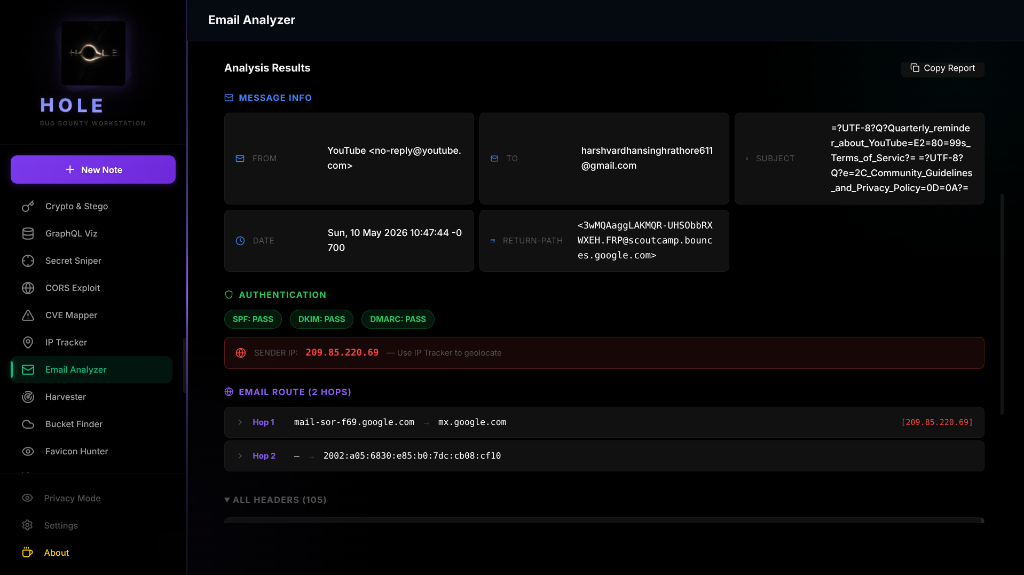
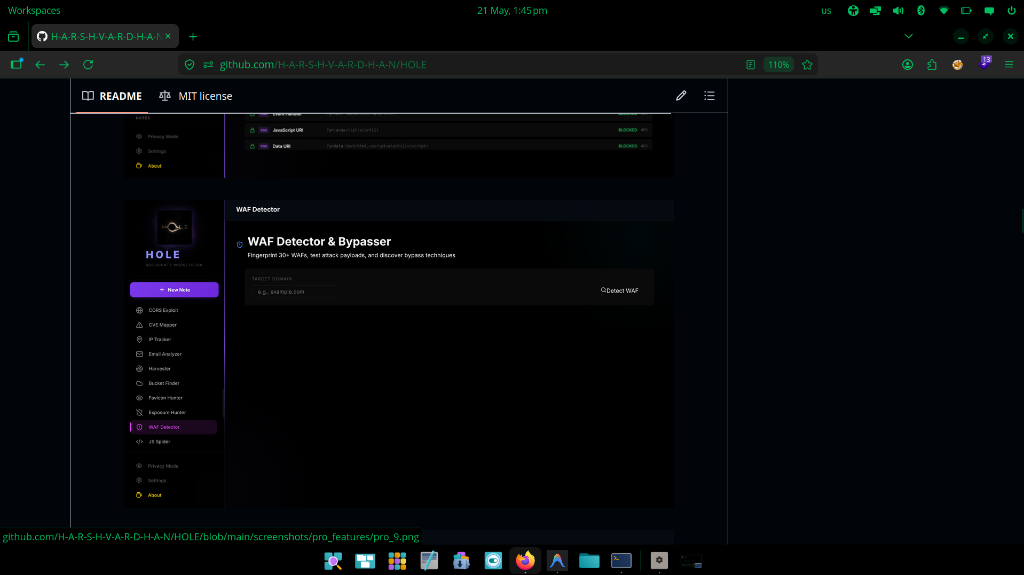
Marketing: Restore Technique Vault and add newest Email Analyzer screenshots

diff --git a/README.md b/README.md
@@ -69,23 +69,25 @@ To purchase your lifetime license and receive the fully compiled, secure desktop
 ### PRO Interface Previews
 
 <div align="center">
-  <img src="screenshots/pro_features/pro_1.png" width="90%" alt="PRO IP Tracker" />
+  <img src="screenshots/pro_features/tool_ip_tracker.png" width="90%" alt="PRO IP Tracker" />
   <br/><br/>
-  <img src="screenshots/pro_features/pro_2.png" width="90%" alt="PRO Map View" />
+  <img src="screenshots/pro_features/tool_map_view.png" width="90%" alt="PRO Map View" />
   <br/><br/>
-  <img src="screenshots/pro_features/pro_3.png" width="90%" alt="PRO Email Analyzer" />
+  <img src="screenshots/pro_features/tool_email_analyzer.png" width="90%" alt="PRO Email Analyzer" />
   <br/><br/>
-  <img src="screenshots/pro_features/pro_4.png" width="90%" alt="PRO Harvester" />
+  <img src="screenshots/pro_features/tool_harvester.png" width="90%" alt="PRO Harvester" />
   <br/><br/>
-  <img src="screenshots/pro_features/pro_5.png" width="90%" alt="PRO Bucket Finder" />
+  <img src="screenshots/pro_features/tool_bucket_finder.png" width="90%" alt="PRO Bucket Finder" />
   <br/><br/>
-  <img src="screenshots/pro_features/pro_6.png" width="90%" alt="PRO Favicon Hunter" />
+  <img src="screenshots/pro_features/tool_favicon_hunter.png" width="90%" alt="PRO Favicon Hunter" />
   <br/><br/>
-  <img src="screenshots/pro_features/pro_8.png" width="90%" alt="PRO WAF Detector" />
+  <img src="screenshots/pro_features/tool_waf_detector.png" width="90%" alt="PRO WAF Detector" />
   <br/><br/>
-  <img src="screenshots/pro_features/pro_9.png" width="90%" alt="PRO Technique Vault" />
+  <img src="screenshots/pro_features/tool_js_spider.png" width="90%" alt="PRO JS Spider" />
   <br/><br/>
-  <img src="screenshots/pro_features/pro_10.png" width="90%" alt="PRO JS Spider" />
+  <img src="screenshots/pro_features/tool_technique_vault_1.png" width="90%" alt="PRO Technique Vault" />
+  <br/><br/>
+  <img src="screenshots/pro_features/tool_technique_vault_2.png" width="90%" alt="PRO Technique Vault" />
 </div>
 
 <br/>
